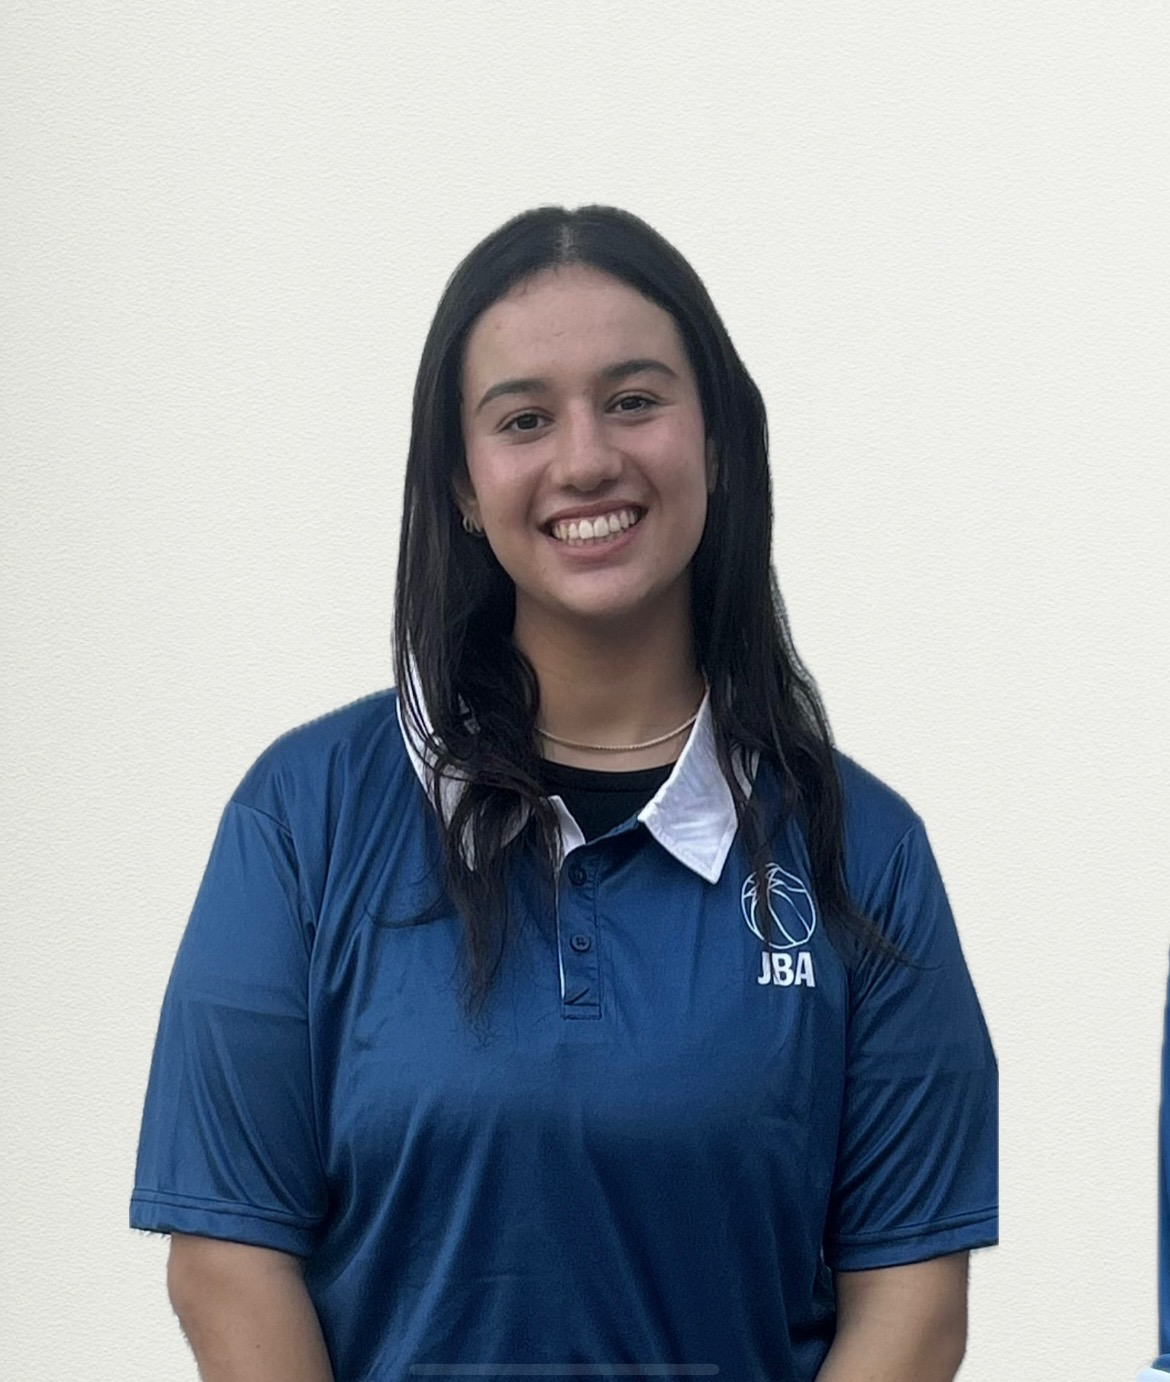
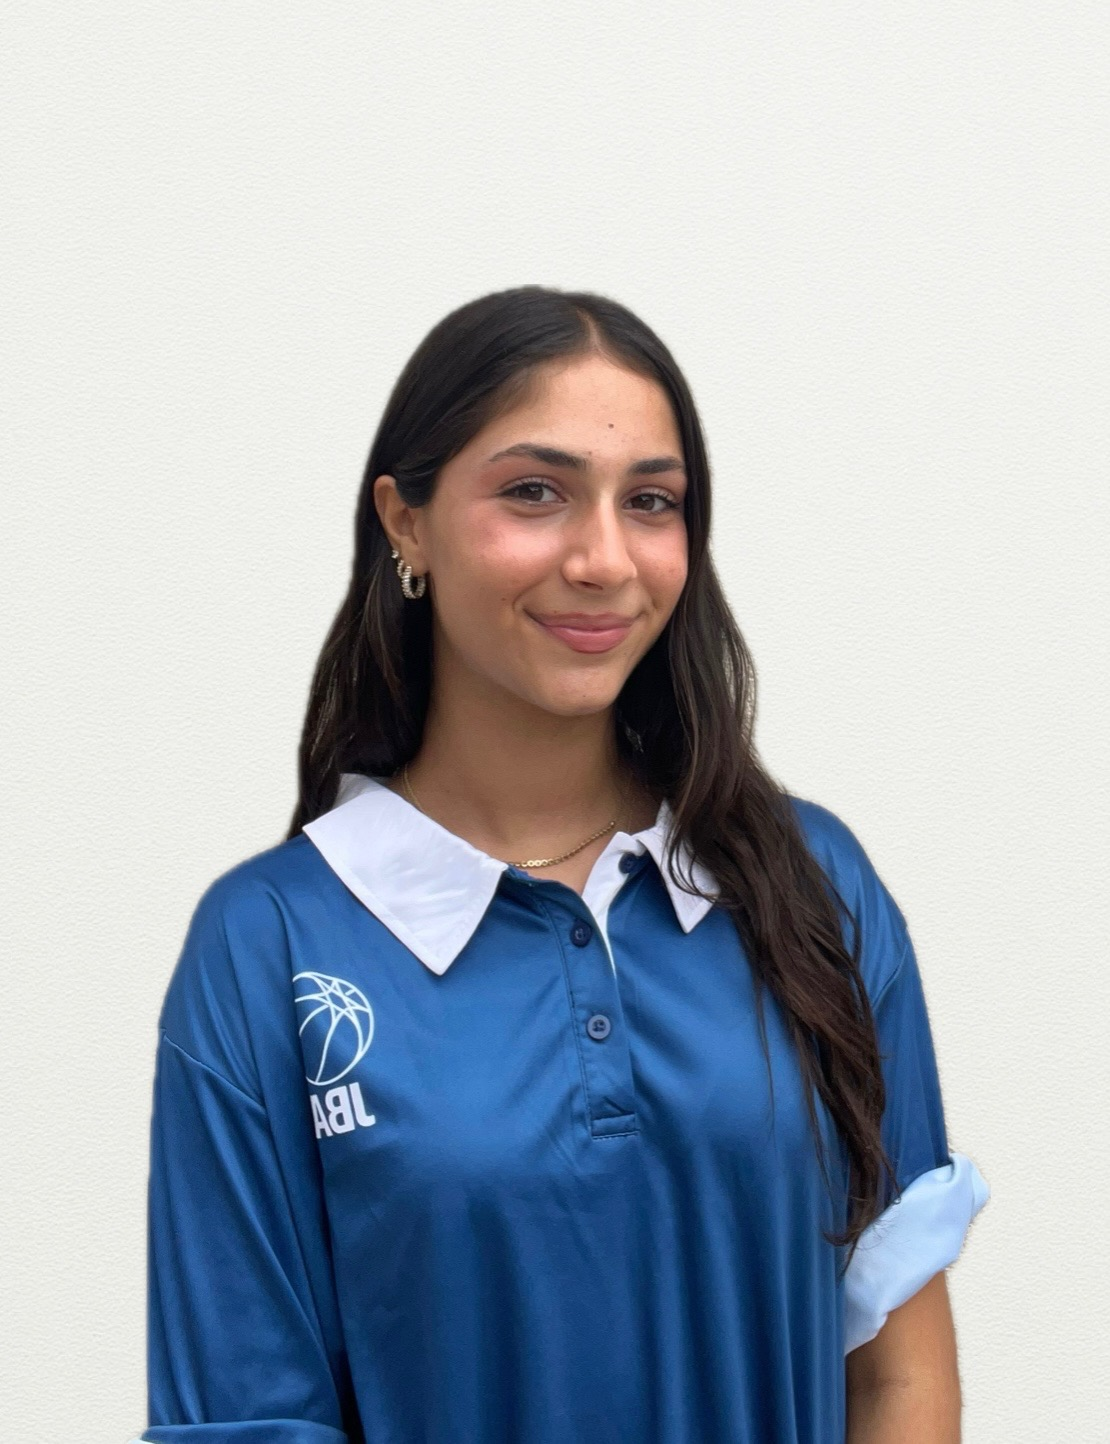
coaches

diff --git a/index.html b/index.html
@@ -318,12 +318,12 @@ Major News Coming Soon: JBA's Summer Program! 🌞
         </div>
         <!-- diverrrrr endddd -->
       </div>
-<!---new coaches-->
+
 
 <div class="promo-card" style="font-size: 2vw">
         <!-- dividerrr -->
         <div class="coach-photo">
-          <img src="./images/AlexWannon.jpeg" alt="5 Terre" style="width: 100%" />
+          <img src="./images/alexWannon.jpeg" alt="5 Terre" style="width: 100%" />
           <div class="coaches-photo-container">
             <h1>Alex Wannon</h1>
             <p>
@@ -353,7 +353,7 @@ Major News Coming Soon: JBA's Summer Program! 🌞
       <div class="promo-card" style="font-size: 2vw">
         <!-- dividerrr -->
         <div class="coach-photo">
-          <img src="./images/shishiAbramson.jpeg" alt="5 Terre" style="width: 100%" />
+          <img src="./images/ellahZackary.jpeg" alt="5 Terre" style="width: 100%" />
           <div class="coaches-photo-container">
             <h1>Ellah Zackary</h1>
             <p>
